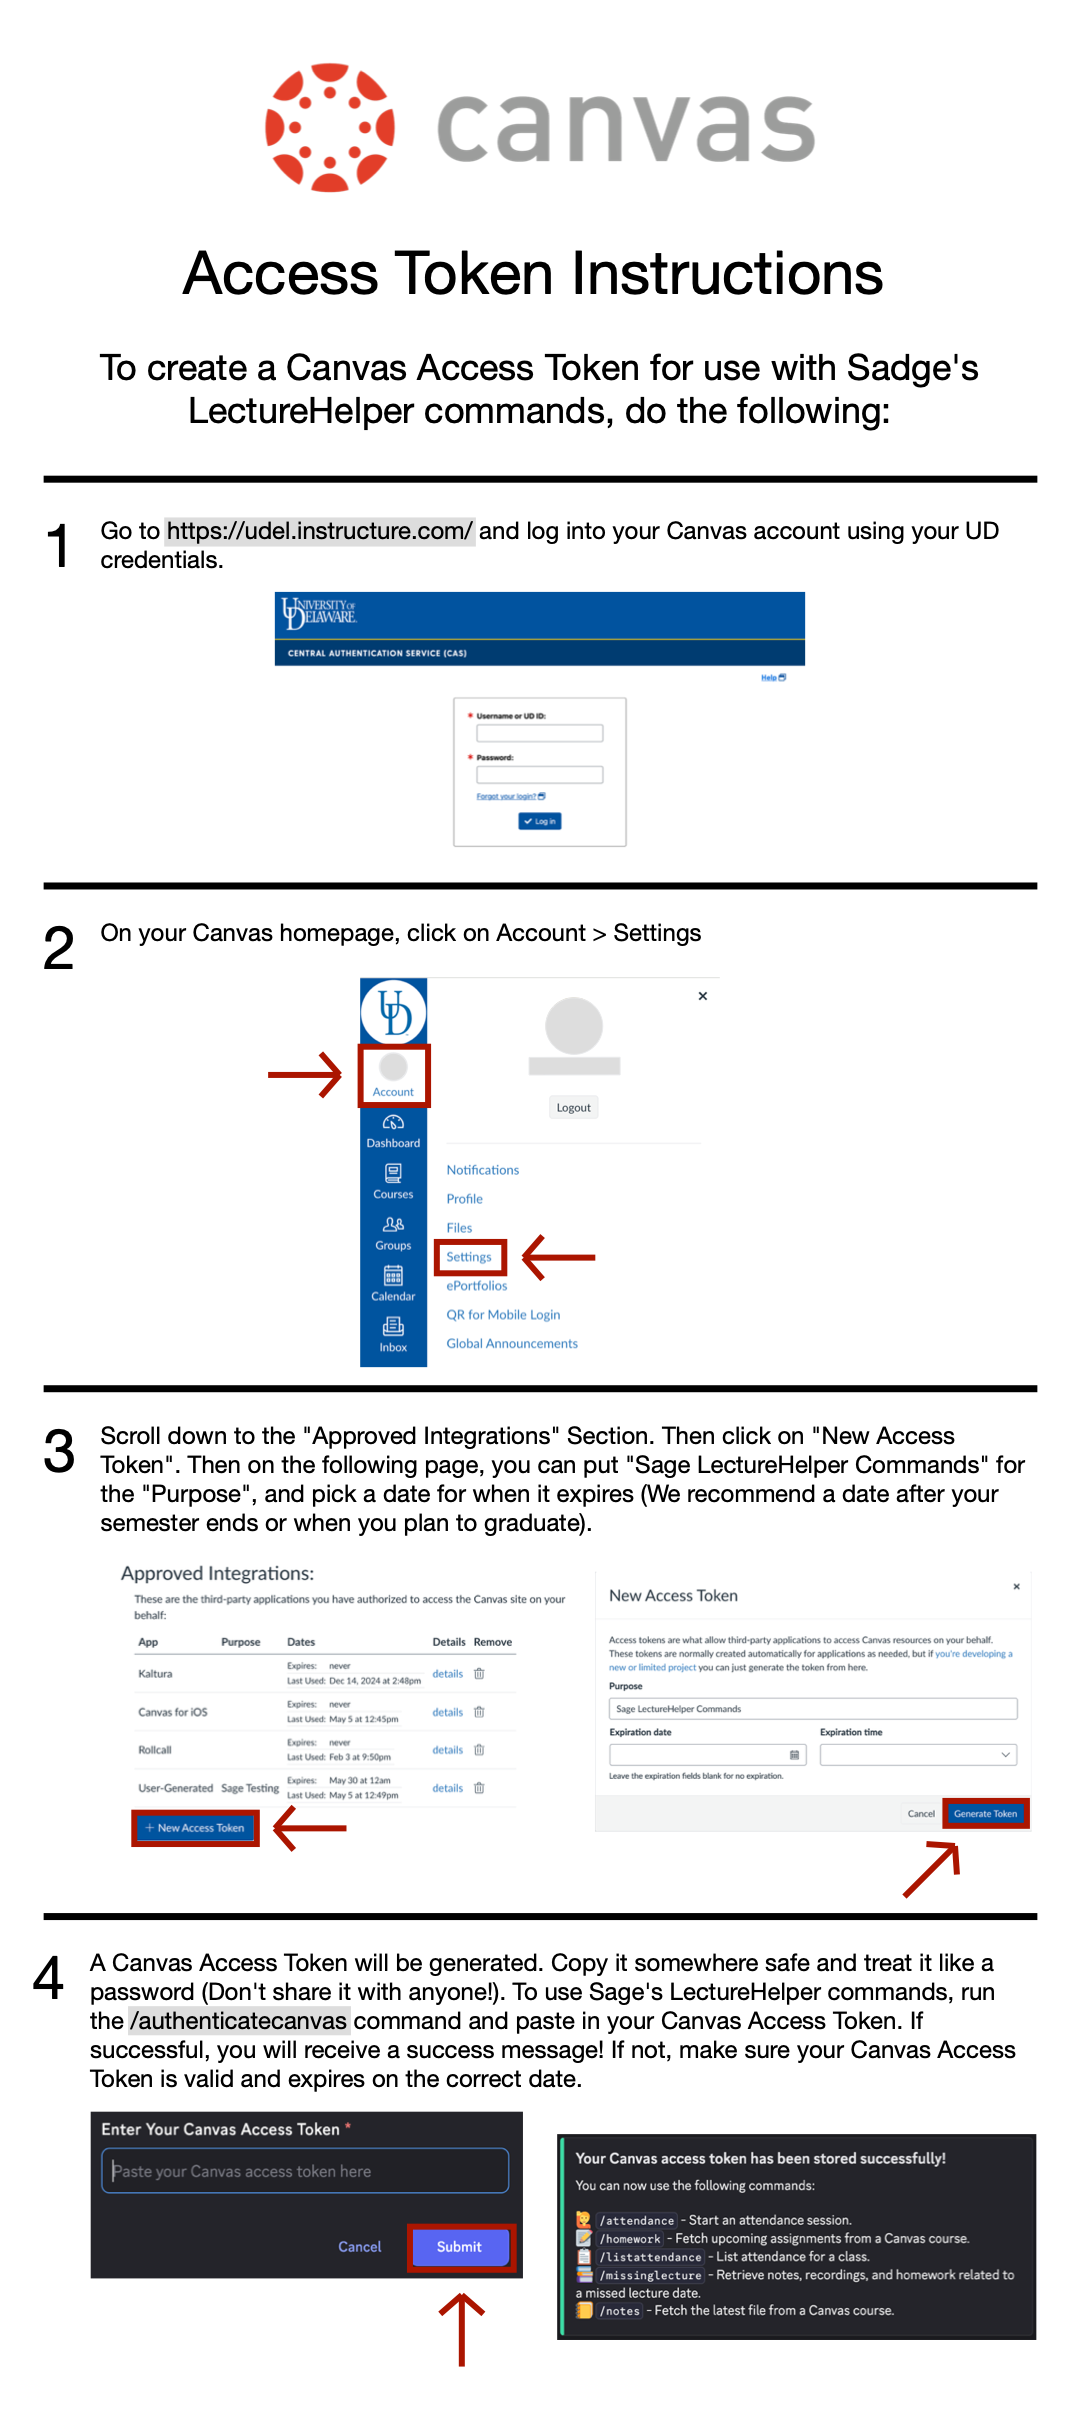
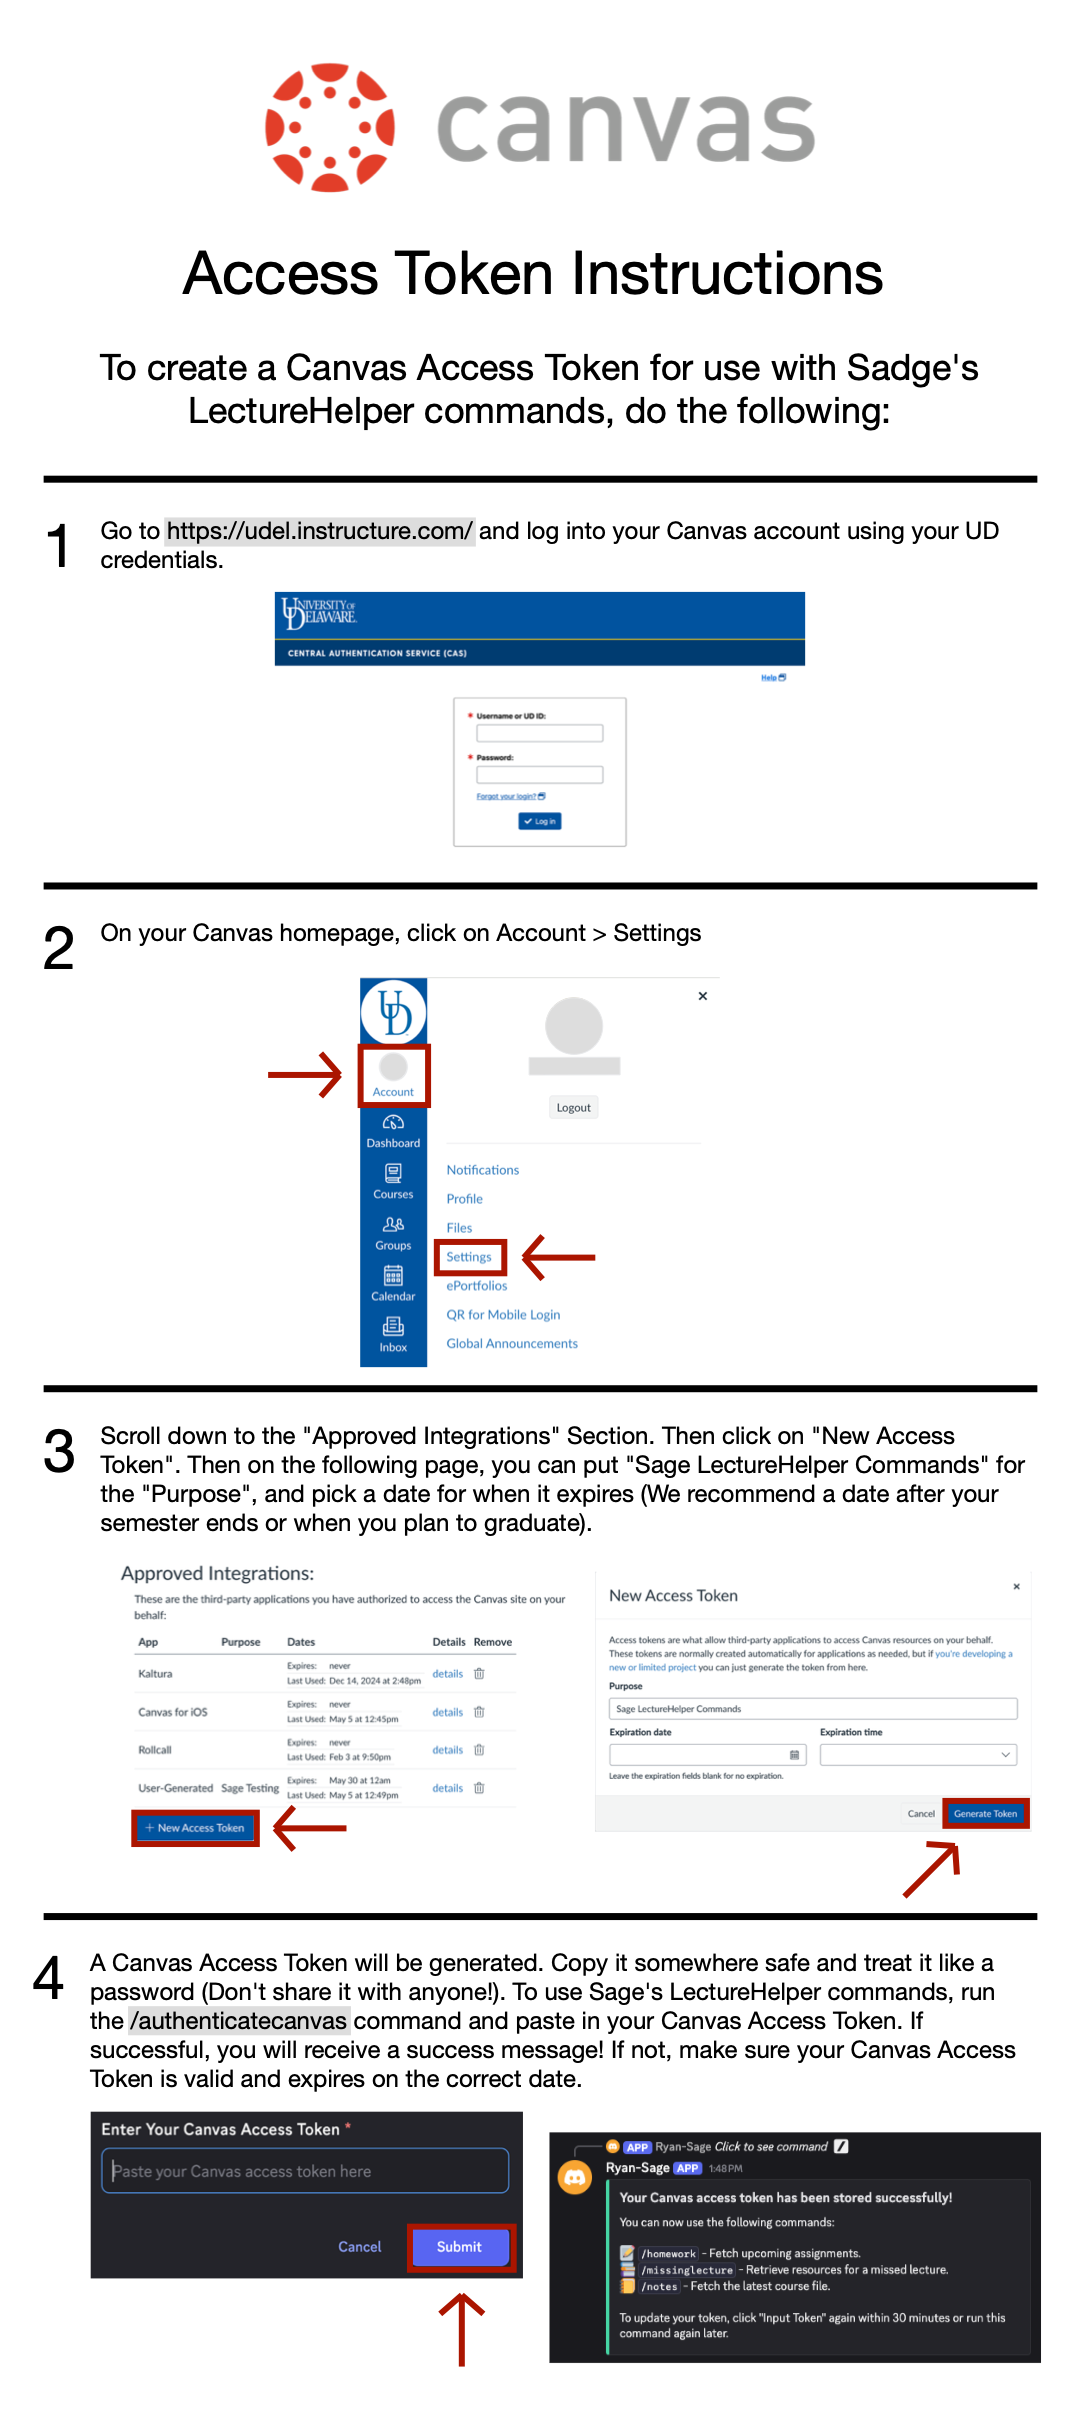
Updated Instructions Image

Changed region(s): [[0.4889, 0.8678, 0.9778, 0.9917]]

diff --git a/src/commands/lecturehelper/homework.ts b/src/commands/lecturehelper/homework.ts
@@ -70,7 +70,7 @@ export default class extends Command {
 		const baseUrl = `${CANVAS.BASE_URL}/courses?page=1&per_page=100&enrollment_state=active;`;
 
 		try {
-			await interaction.deferReply({ ephemeral: true });
+			await interaction.deferReply({ /* ephemeral: true */ });
 
 			const response = await axios.get<CanvasCourse[]>(baseUrl, {
 				headers: { Authorization: `Bearer ${canvasToken}` }
@@ -135,7 +135,7 @@ export async function handleAssignmentCourseSelection(interaction: StringSelectM
 	const canvasToken = await getUserCanvasToken(interaction.client.mongo, interaction.user.id);
 
 	try {
-		await interaction.deferReply({ ephemeral: true });
+		await interaction.deferReply({ /* ephemeral: true */ });
 
 		const courseId = interaction.values[0];
 		const assignmentsUrl = `https://udel.instructure.com/api/v1/courses/${courseId}/assignments`;
@@ -258,7 +258,7 @@ export async function handleAssignmentCourseSelection(interaction: StringSelectM
 				// ).join('\n\n')
 			
 
-		await interaction.editReply({ embeds: [embed] });
+		await interaction.editReply({ embeds: [embed], /* ephemeral: true */ });
 	} catch (error: unknown) {
 		const message = axios.isAxiosError(error)
 			? error.response?.data ?? error.message
